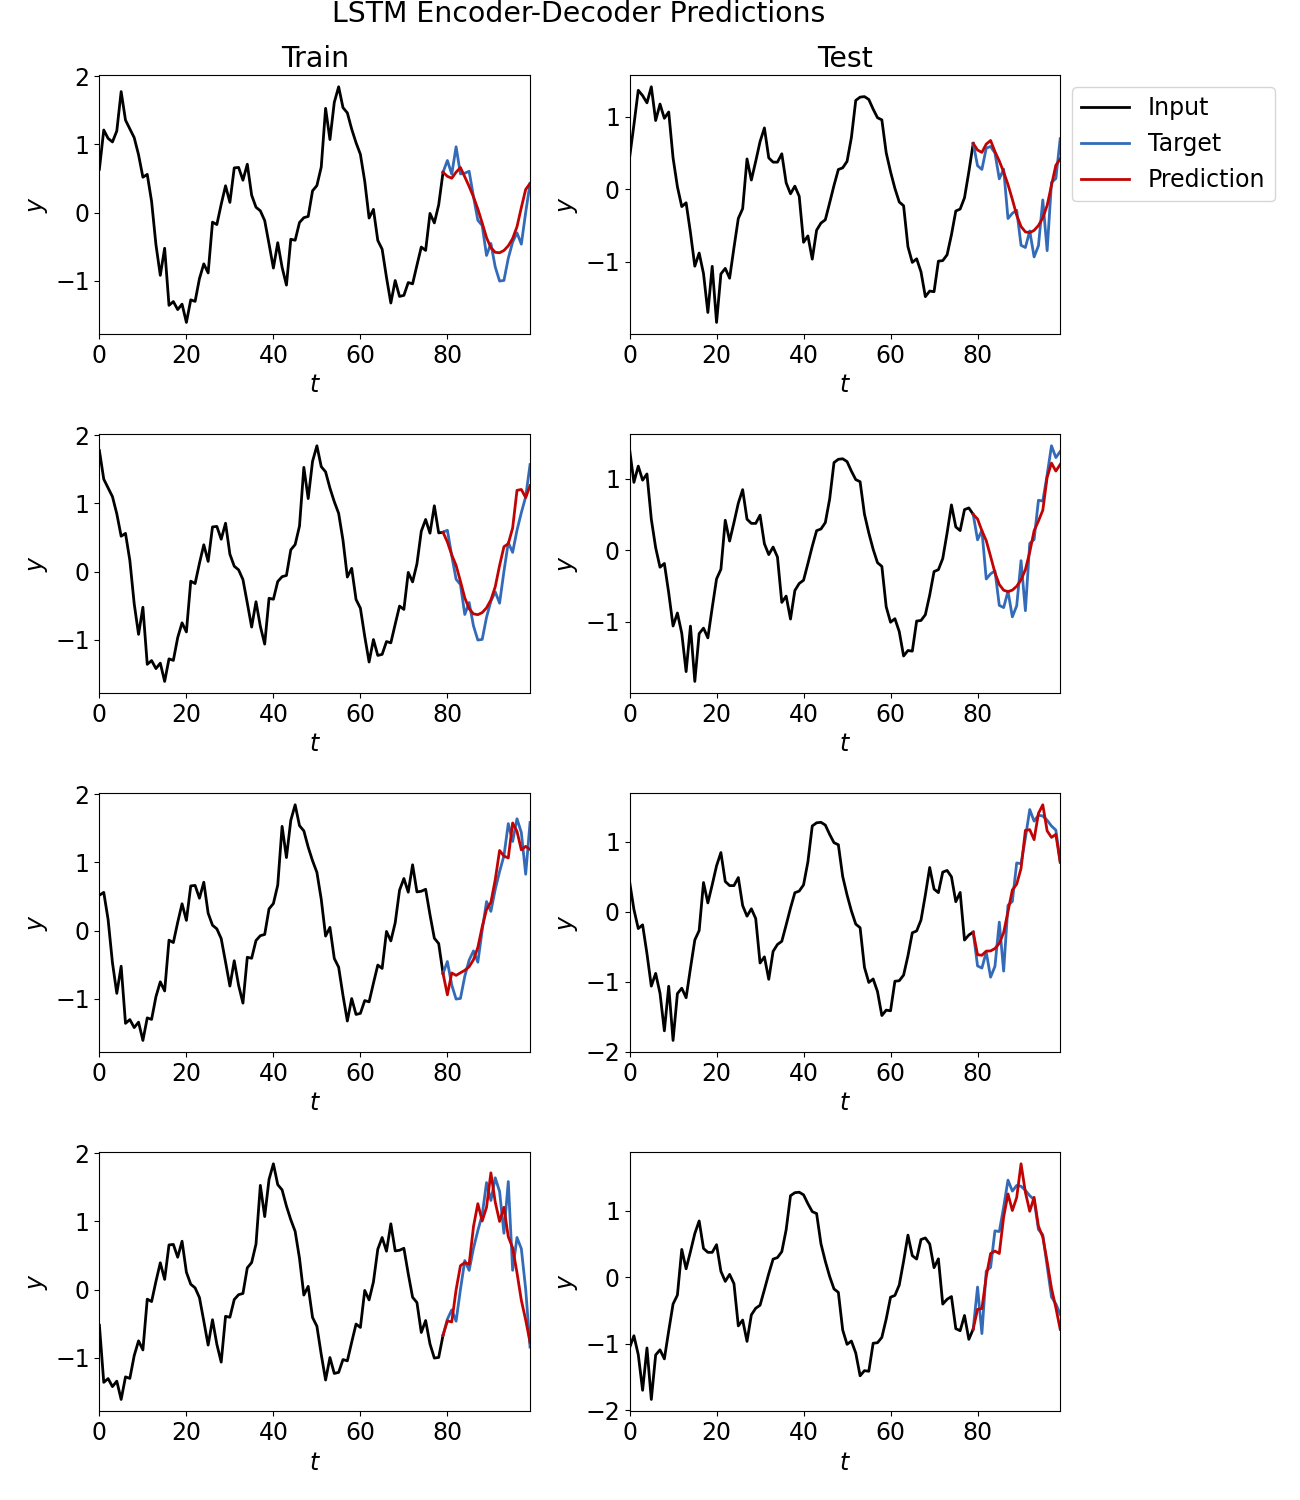
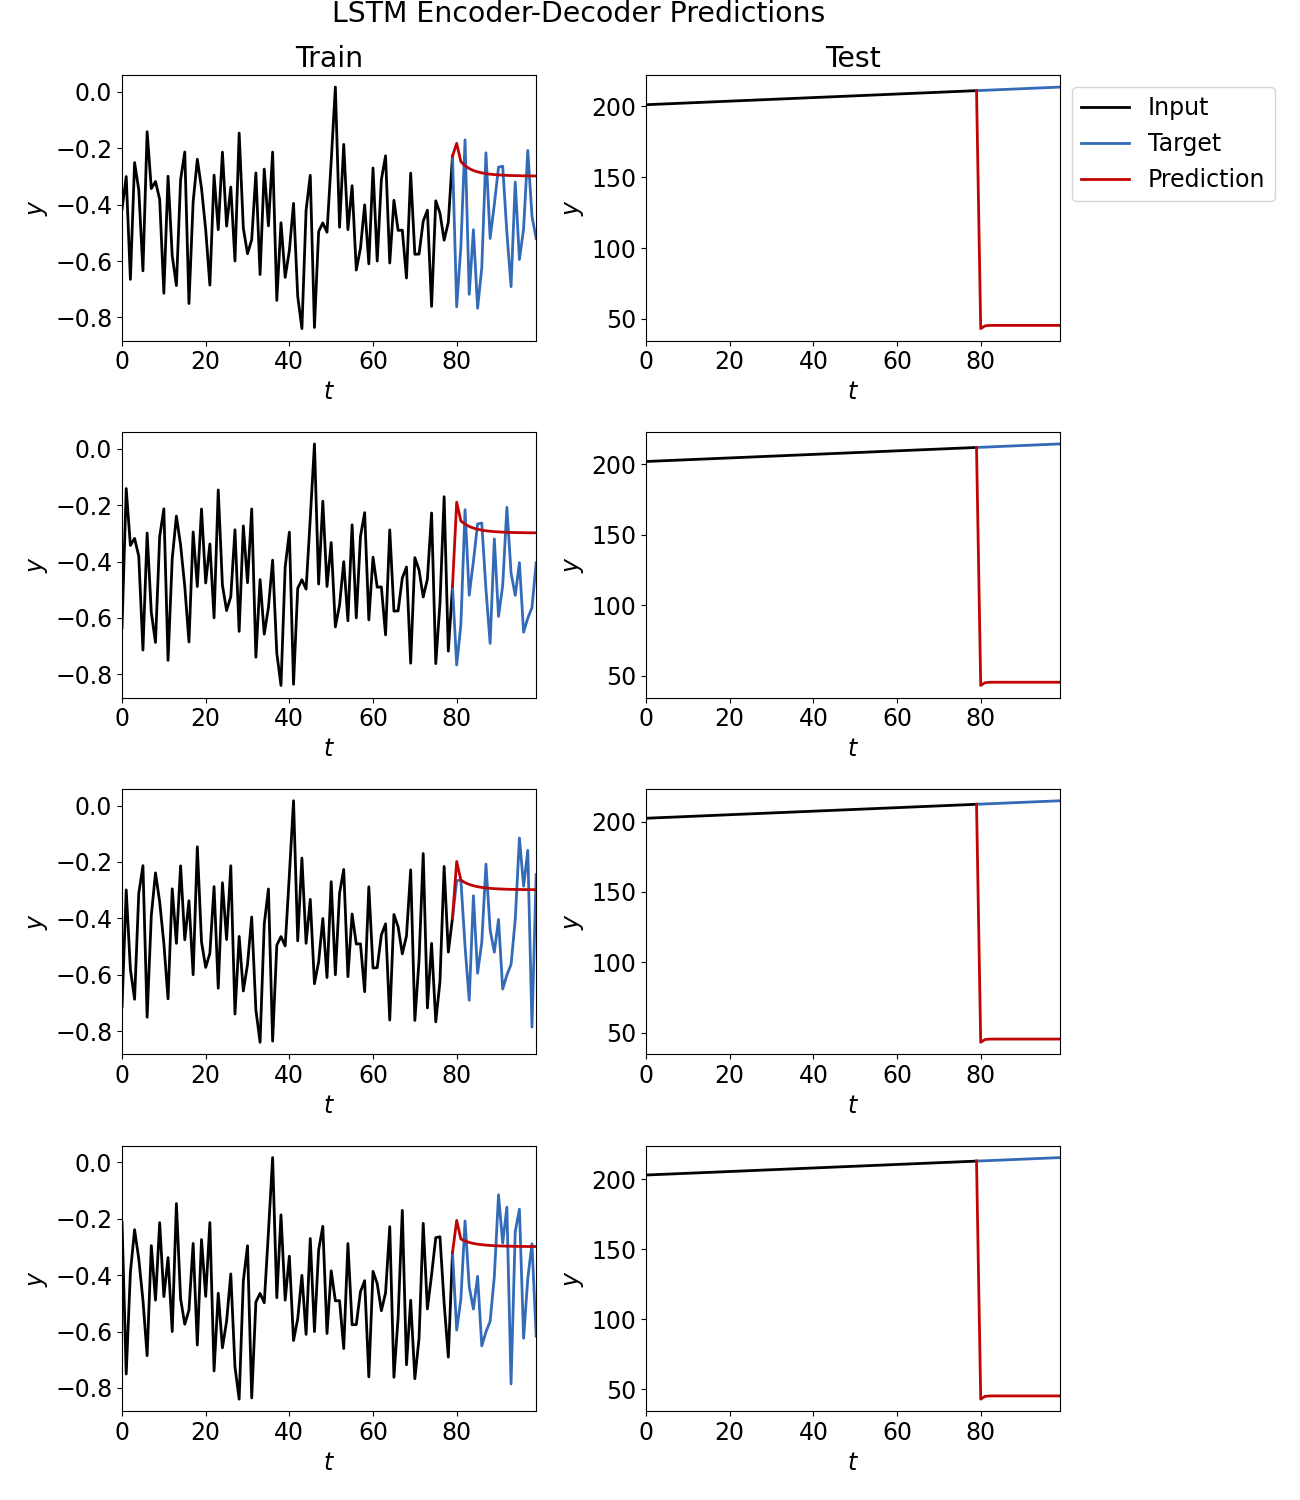
lstm-ED 初步调参

diff --git a/LSTM_encoder_decoder/code/plotting.py b/LSTM_encoder_decoder/code/plotting.py
@@ -34,10 +34,10 @@ def plot_train_test_results(lstm_model, Xtrain, Ytrain, Xtest, Ytest, num_rows =
       X_train_plt = Xtrain[:, ii, :]
       Y_train_pred = lstm_model.predict(torch.from_numpy(X_train_plt).type(torch.Tensor), target_len = ow)
 
-      ax[ii, 0].plot(np.arange(0, iw), Xtrain[:, ii, 0], 'k', linewidth = 2, label = 'Input')
-      ax[ii, 0].plot(np.arange(iw - 1, iw + ow), np.concatenate([[Xtrain[-1, ii, 0]], Ytrain[:, ii, 0]]),
+      ax[ii, 0].plot(np.arange(0, iw), Xtrain[:, ii, -1], 'k', linewidth = 2, label = 'Input')
+      ax[ii, 0].plot(np.arange(iw - 1, iw + ow), np.concatenate([[Xtrain[-1, ii, -1]], Ytrain[:, ii, -1]]),
                      color = (0.2, 0.42, 0.72), linewidth = 2, label = 'Target')
-      ax[ii, 0].plot(np.arange(iw - 1, iw + ow),  np.concatenate([[Xtrain[-1, ii, 0]], Y_train_pred[:, 0]]),
+      ax[ii, 0].plot(np.arange(iw - 1, iw + ow),  np.concatenate([[Xtrain[-1, ii, -1]], Y_train_pred[:, -1]]),
                      color = (0.76, 0.01, 0.01), linewidth = 2, label = 'Prediction')
       ax[ii, 0].set_xlim([0, iw + ow - 1])
       ax[ii, 0].set_xlabel('$t$')
@@ -46,10 +46,10 @@ def plot_train_test_results(lstm_model, Xtrain, Ytrain, Xtest, Ytest, num_rows =
       # test set
       X_test_plt = Xtest[:, ii, :]
       Y_test_pred = lstm_model.predict(torch.from_numpy(X_test_plt).type(torch.Tensor), target_len = ow)
-      ax[ii, 1].plot(np.arange(0, iw), Xtest[:, ii, 0], 'k', linewidth = 2, label = 'Input')
-      ax[ii, 1].plot(np.arange(iw - 1, iw + ow), np.concatenate([[Xtest[-1, ii, 0]], Ytest[:, ii, 0]]),
+      ax[ii, 1].plot(np.arange(0, iw), Xtest[:, ii, -1], 'k', linewidth = 2, label = 'Input')
+      ax[ii, 1].plot(np.arange(iw - 1, iw + ow), np.concatenate([[Xtest[-1, ii, -1]], Ytest[:, ii, -1]]),
                      color = (0.2, 0.42, 0.72), linewidth = 2, label = 'Target')
-      ax[ii, 1].plot(np.arange(iw - 1, iw + ow), np.concatenate([[Xtest[-1, ii, 0]], Y_test_pred[:, 0]]),
+      ax[ii, 1].plot(np.arange(iw - 1, iw + ow), np.concatenate([[Xtest[-1, ii, -1]], Y_test_pred[:, -1]]),
                      color = (0.76, 0.01, 0.01), linewidth = 2, label = 'Prediction')
       ax[ii, 1].set_xlim([0, iw + ow - 1])
       ax[ii, 1].set_xlabel('$t$')

diff --git a/LSTM_encoder_decoder/code/example.py b/LSTM_encoder_decoder/code/example.py
@@ -21,8 +21,8 @@ matplotlib.rcParams.update({'font.size': 17})
 
 #----------------------------------------------------------------------------------------------------------------
 # generate dataset for LSTM
-t, y = generate_dataset.synthetic_data()
-t_train, y_train, t_test, y_test = generate_dataset.train_test_split(t, y, split = 0.8)
+data = generate_dataset.synthetic_data()
+t_train, y_train, t_test, y_test = generate_dataset.train_test_split(data, data[:,-1], split = 0.8)
 
 # plot time series
 """
@@ -56,8 +56,8 @@ ow = 20
 s = 5
 
 # generate windowed training/test datasets
-Xtrain, Ytrain= generate_dataset.windowed_dataset(y_train, input_window = iw, output_window = ow, stride = s,num_features=t_train.shape[1])
-Xtest, Ytest = generate_dataset.windowed_dataset(y_test, input_window = iw, output_window = ow, stride = s,num_features=t_train.shape[1])
+Xtrain, Ytrain= generate_dataset.windowed_dataset(t_train, input_window = iw, output_window = ow, stride = s,num_features=t_train.shape[1])
+Xtest, Ytest = generate_dataset.windowed_dataset(t_test, input_window = iw, output_window = ow, stride = s,num_features=t_train.shape[1])
 
 # plot example of windowed data
 """
@@ -81,9 +81,11 @@ plt.savefig('plots/windowed_data.png')
 X_train, Y_train, X_test, Y_test = generate_dataset.numpy_to_torch(Xtrain, Ytrain, Xtest, Ytest)
 
 # specify model parameters and train
-model = lstm_encoder_decoder.lstm_seq2seq(input_size = X_train.shape[2], hidden_size = 15)
-loss = model.train_model(X_train, Y_train, n_epochs = 50, target_len = ow, batch_size = 5, training_prediction = 'mixed_teacher_forcing', teacher_forcing_ratio = 0.6, learning_rate = 0.01, dynamic_tf = False)
+model = lstm_encoder_decoder.lstm_seq2seq(input_size = X_train.shape[2], hidden_size = 30)
+loss = model.train_model(X_train, Y_train, n_epochs = 100, target_len = ow, batch_size = 5, training_prediction = 'mixed_teacher_forcing', teacher_forcing_ratio = 0.6, learning_rate = 0.001, dynamic_tf = False)
 
+plt.plot(loss,label="loss")
+plt.savefig('plots/loss.png')
 # plot predictions on train/test data
 plotting.plot_train_test_results(model, Xtrain, Ytrain, Xtest, Ytest)
 

diff --git a/LSTM_encoder_decoder/code/generate_dataset.py b/LSTM_encoder_decoder/code/generate_dataset.py
@@ -18,11 +18,10 @@ def synthetic_data(Nt = 2000, tf = 80 * np.pi):
     : param tf:       final time
     : return t, y:    time, feature arrays
     '''
-    
-    t = np.transpose(np.array([np.linspace(0., tf, Nt),np.linspace(0., tf+100, Nt)]))
-    y = np.sin(2. * t[:,0]) + 0.5 * np.cos(t[:,0]) + np.random.normal(0., 0.2, Nt)
+    y = np.sin(2. * np.random.randn()) + 0.5 * np.cos(np.random.randn()) + np.random.normal(0., 0.2, Nt)
+    t = np.transpose(np.array([np.linspace(0., tf, Nt),np.linspace(0., tf+100, Nt),y]))
 
-    return t, y
+    return t
 
 def train_test_split(t, y, split = 0.8):
 
@@ -77,13 +76,11 @@ def windowed_dataset(y, input_window = 5, output_window = 1, stride = 1, num_fea
         for ii in np.arange(num_samples):
             start_x = stride * ii
             end_x = start_x + input_window
-            #暂且先这样改，可能不对
-            X[:, ii, ff] = y[start_x:end_x, 0]
+            X[:, ii, ff] = y[start_x:end_x, ff]
 
             start_y = stride * ii + input_window
             end_y = start_y + output_window
-            # 暂且先这样改，可能不对
-            Y[:, ii, ff] = y[start_y:end_y, 0]
+            Y[:, ii, ff] = y[start_y:end_y, ff]
 
     return X, Y
 
